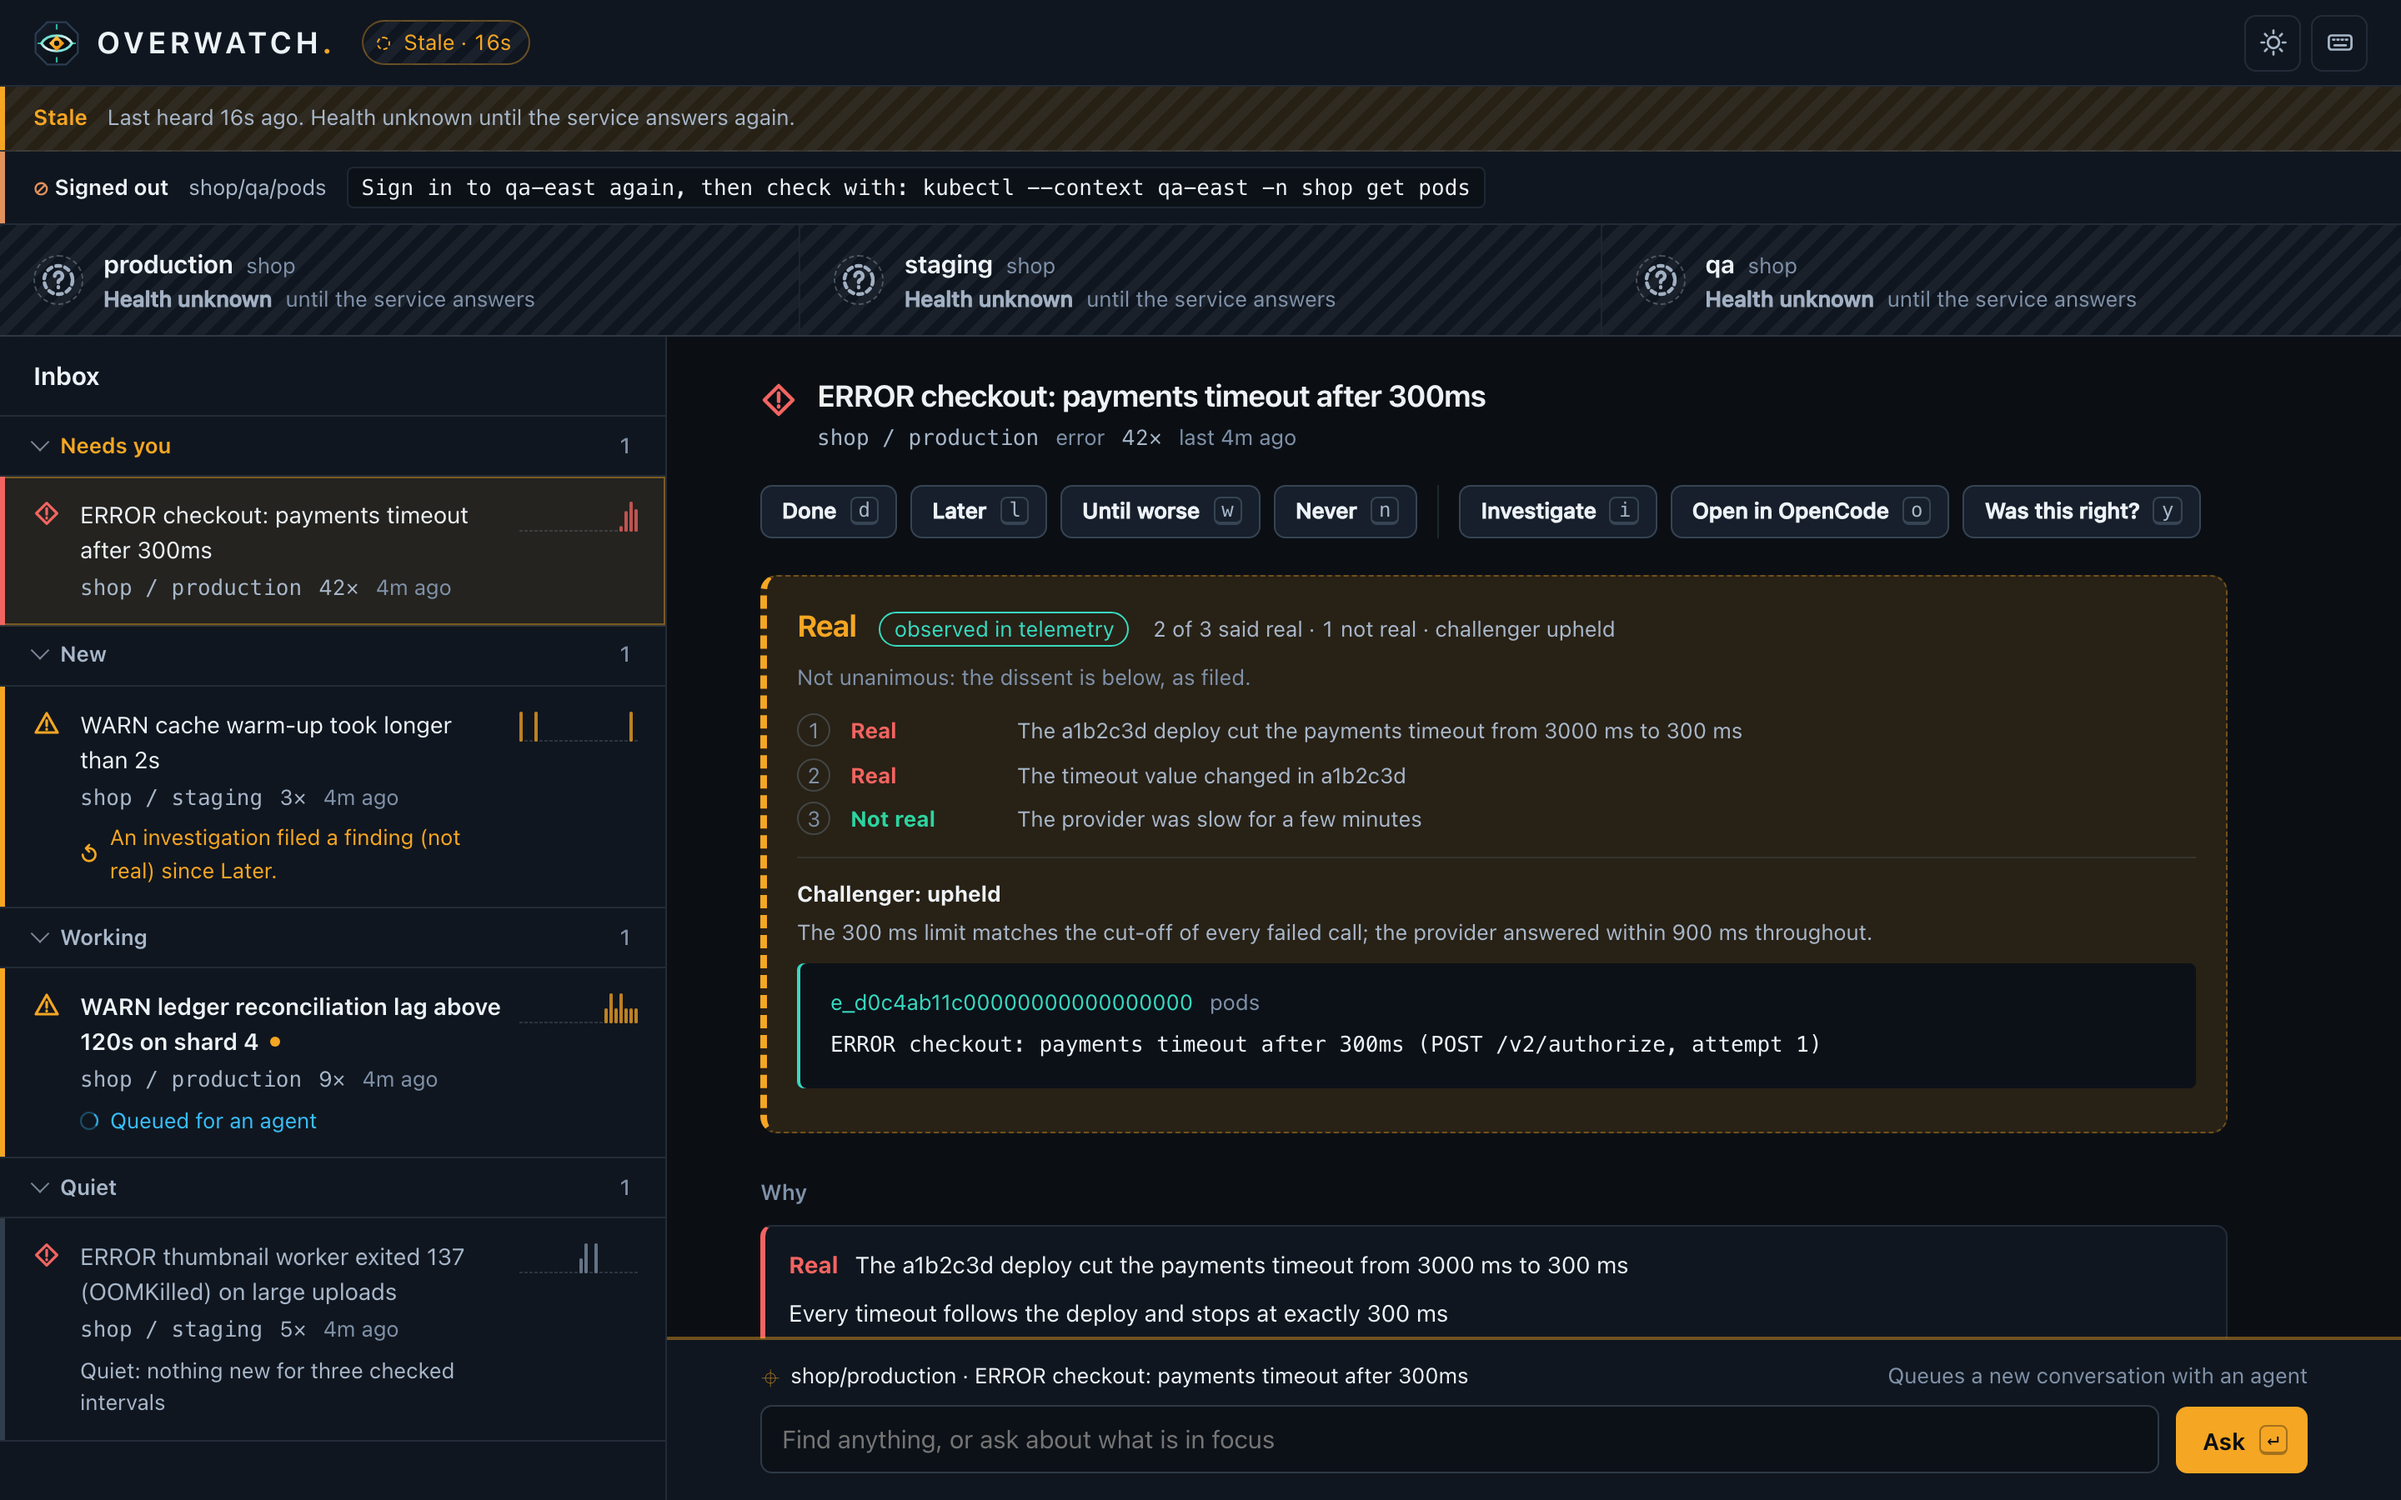
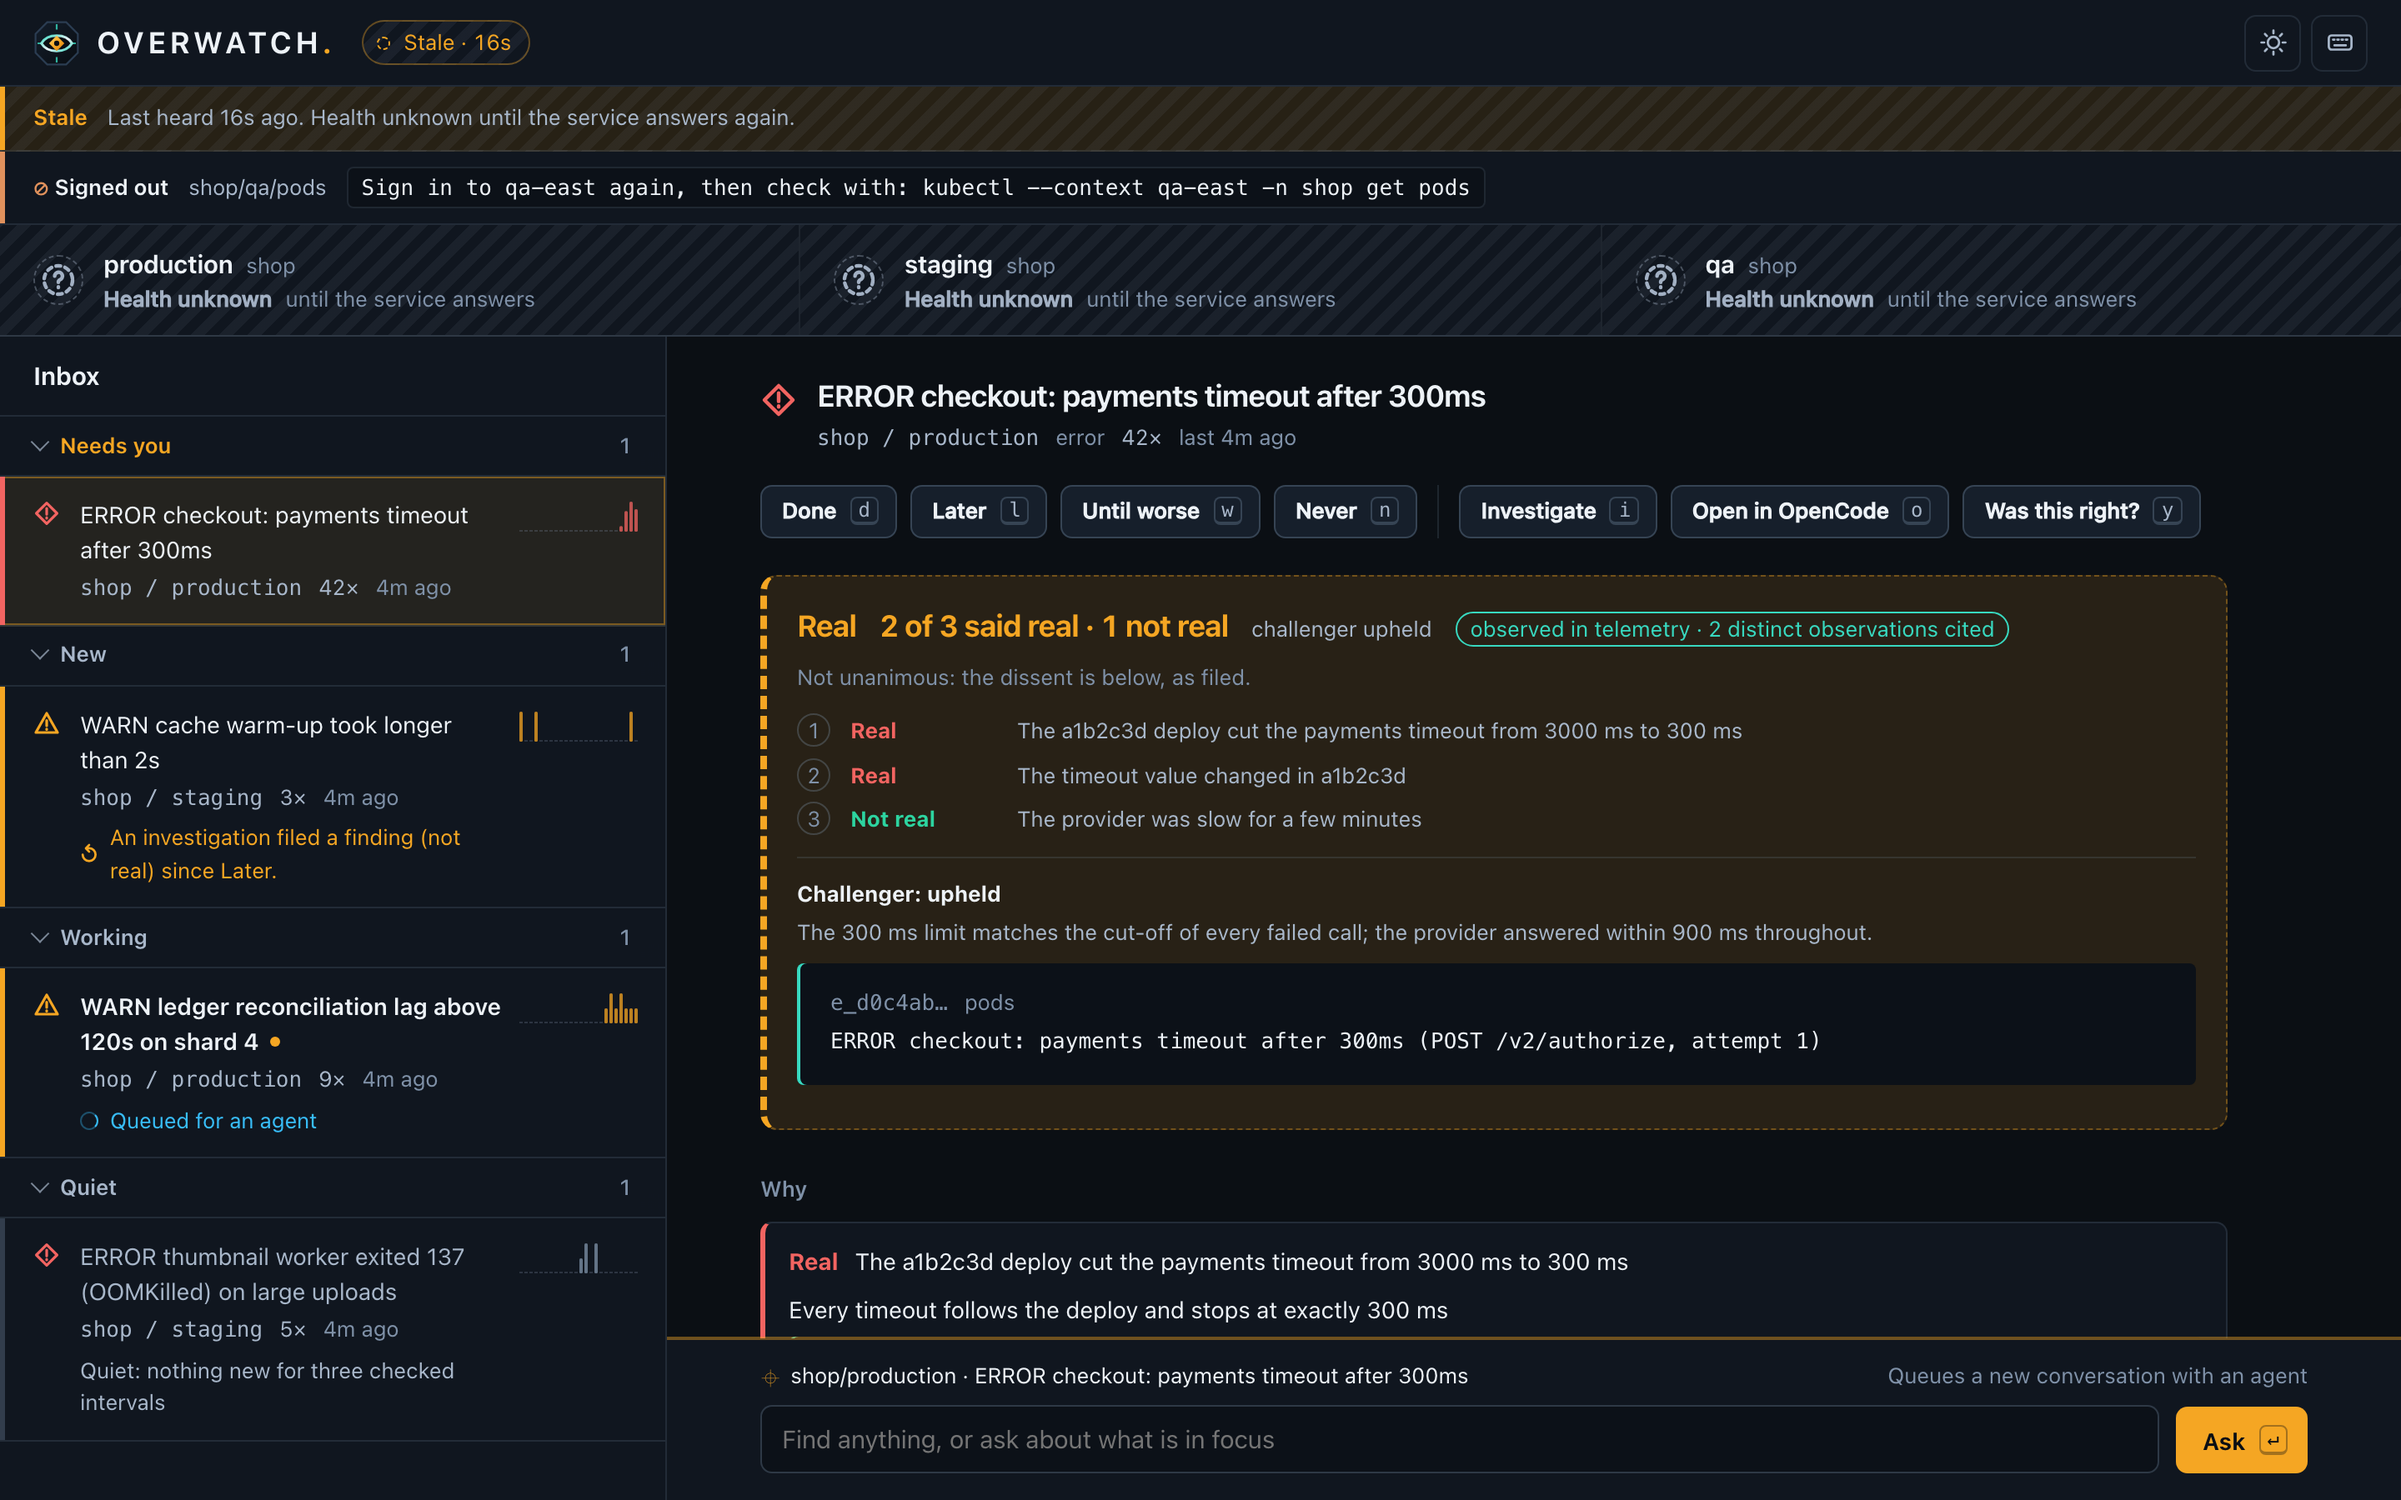
Demo evidence has origins and an observation count; the page omits a count it was not given; screenshots regenerated

diff --git a/src/demo.ts b/src/demo.ts
@@ -121,17 +121,19 @@ function investigated(store: Store) {
       const pieces = (kind === "code" ? [diff] : lines).map((text, k) => {
         const handle = `e_d0c4ab11${n}${k}0000000000000000`;
         w.run("INSERT INTO evidence (handle, run_id, session_id, source, text, ordinal) VALUES (?, ?, ?, ?, ?, ?)", s(handle), s(run), s(session), s(kind === "code" ? "code" : "pods"), s(text), k + 1);
+        w.run("INSERT INTO origins (handle, origin) VALUES (?, ?)", s(handle), s(kind === "code" ? "code" : "telemetry"));
         return { handle, source: kind === "code" ? "code" : "pods", text };
       });
       const body = { cause, ruled_out: verdict === "real" ? ["provider outage (status page green)", "database latency"] : [], not_checked: ["the provider's own logs"], next_check: "Restore timeout_ms to 3000 and watch the rate", impact: "checkout payments fail", affected: ["shop/production"], since: null, status: "investigated" };
       w.run("INSERT INTO findings (id, run_id, verdict, claims, code, body) VALUES (?, ?, ?, ?, ?, ?)", s(finding), s(run), s(verdict), json([{ statement, pieces }]), json(code), json(body));
       w.run("INSERT INTO work (id, job_id, kind, slot, priority, state, run_id, seq) VALUES (?, ?, 'reading', ?, 1, 'done', ?, ?)", s(`wk_d0c4ab11${n}`), s(job), n + 1, s(run), seq);
-      return { slot: n + 1, sessionId: session, verdict: verdict as "real" | "not_real", findingId: finding, reason: null, telemetry: kind !== "code" };
+      return { slot: n + 1, sessionId: session, verdict: verdict as "real" | "not_real", findingId: finding, reason: null, telemetry: kind !== "code", observed: kind === "code" ? [] : lines };
     });
     const challenge = { outcome: "upheld" as const, reason: "The 300 ms limit matches the cut-off of every failed call; the provider answered within 900 ms throughout.", pieces: [{ handle: "e_d0c4ab11c00000000000000000", source: "pods", text: lines[0]! }] };
     const decided = adjudicate(3, readings, challenge);
     const at = w.next();
-    const result = { verdict: decided.verdict, observed: decided.observed, planned: 3, counts: decided.counts, readings: readings.map(({ telemetry: _, ...r }) => r), challenge, seq: at };
+    const observations = new Set(readings.filter((r) => r.verdict === decided.verdict).flatMap((r) => r.observed)).size;
+    const result = { verdict: decided.verdict, observed: decided.observed, planned: 3, counts: decided.counts, observations, readings: readings.map(({ telemetry: _, observed: __, ...r }) => r), challenge, seq: at };
     w.event("adjudicated", s(subject), { job, result });
     w.run("UPDATE jobs SET result = ? WHERE id = ?", json(result), s(job));
   });
